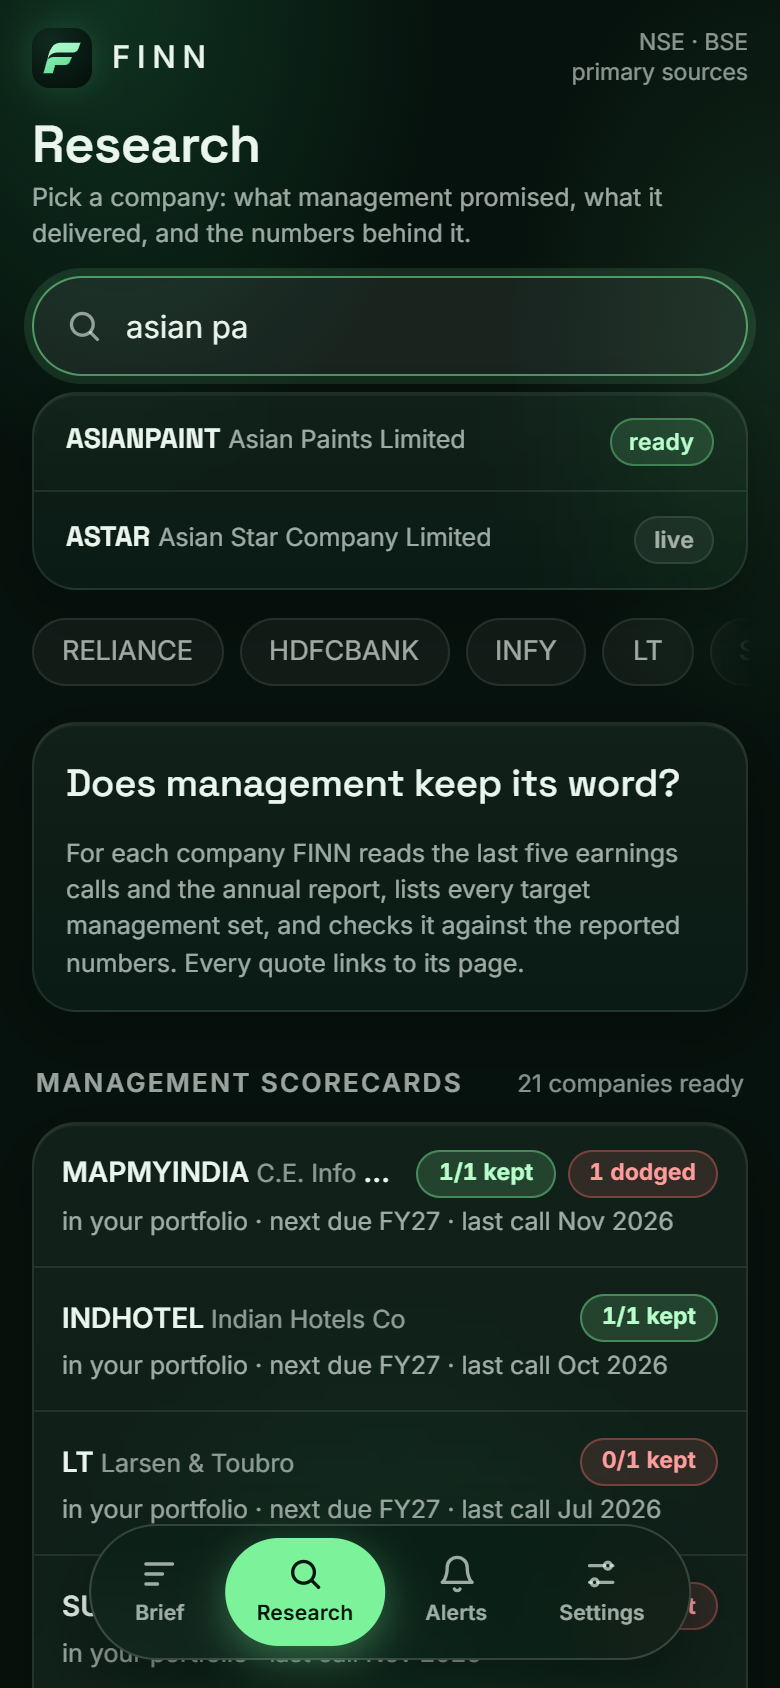
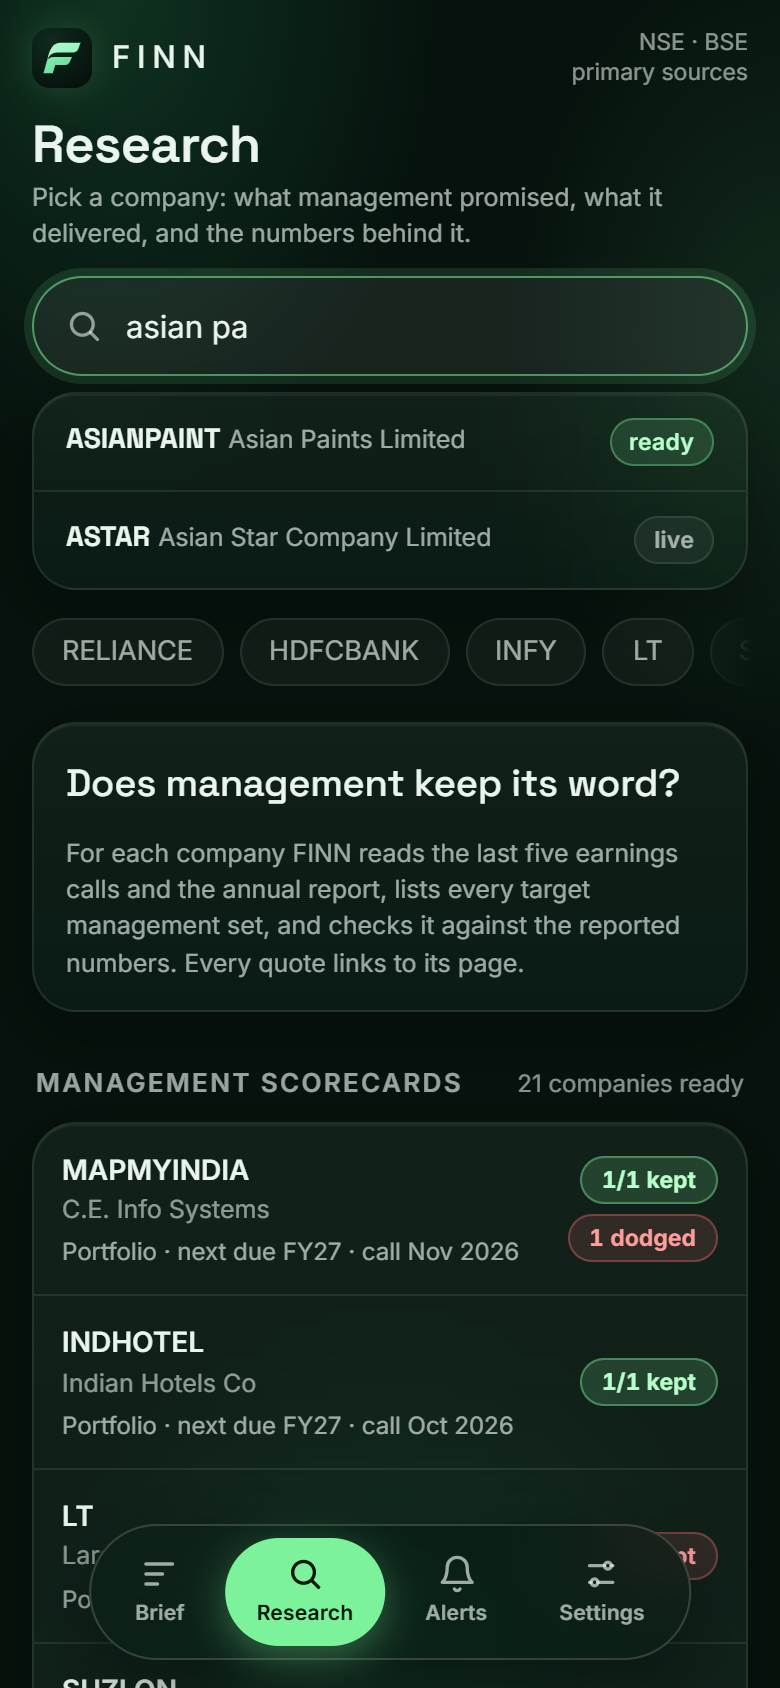
Research list: ticker, name and details on the left, verdicts stacked on the right

diff --git a/frontend/src/screens/Research.tsx b/frontend/src/screens/Research.tsx
@@ -163,17 +163,18 @@ function Intro({ index, onPick }: { index: Json[]; onPick: (t: string) => void }
         {rows.map((r) => {
           const k = ratio(r.kept), d = ratio(r.dodged);
           return (
-            <button key={r.ticker} className="ledger-row" onClick={() => onPick(r.ticker)}>
-              <div className="line1">
-                <span className="what">{r.ticker} <span className="faint small" style={{ fontWeight: 400 }}>{shortName(r.name)}</span></span>
-                <span className="tnum small" style={{ display: "flex", gap: 6 }}>
-                  <span className={`verdict ${k && k.b ? (k.a / k.b >= 0.6 ? "v-kept" : k.a / k.b >= 0.34 ? "v-partly" : "v-missed") : "v-nm"}`}>
-                    {k && k.b ? `${k.a}/${k.b} kept` : r.tracked ? `${r.tracked} tracked` : "no targets"}
-                  </span>
-                  {d && d.a > 0 && <span className="verdict v-missed">{d.a} dodged</span>}
-                </span>
+            <button key={r.ticker} className="ledger-row score-row" onClick={() => onPick(r.ticker)}>
+              <div className="score-left">
+                <div className="what">{r.ticker}</div>
+                <div className="score-name">{shortName(r.name)}</div>
+                <div className="line2">{r.in_portfolio ? "Portfolio" : "Not held"}{r.next_due ? ` · next due ${r.next_due.replace(/^by /, "")}` : ""}{r.last_call ? ` · call ${monthYear(r.last_call)}` : ""}</div>
               </div>
-              <div className="line2">{r.in_portfolio ? "in your portfolio" : "research only (not held)"}{r.next_due ? ` · next due ${r.next_due.replace(/^by /, "")}` : ""}{r.last_call ? ` · last call ${monthYear(r.last_call)}` : ""}</div>
+              <div className="score-pills tnum">
+                {k && k.b
+                  ? <span className={`verdict ${k.a / k.b >= 0.6 ? "v-kept" : k.a / k.b >= 0.34 ? "v-partly" : "v-missed"}`}>{k.a}/{k.b} kept</span>
+                  : r.tracked ? <span className="verdict v-nm">{r.tracked} tracked</span> : null}
+                {d && d.a > 0 && <span className="verdict v-missed">{d.a} dodged</span>}
+              </div>
             </button>
           );
         })}

diff --git a/frontend/src/styles.css b/frontend/src/styles.css
@@ -336,3 +336,10 @@ button:active, .chip:active, .why-btn:active, .btn:active { transform: scale(0.9
 .fire-sym { font-weight: 600; font-size: 13.5px; }
 .fire-ret { font-weight: 600; font-size: 14px; }
 .fire-sub { font-size: 11.5px; color: var(--text-3); margin-top: 1px; }
+
+.score-row { display: flex; align-items: center; gap: 12px; }
+.score-left { flex: 1; min-width: 0; }
+.score-left .what { display: block; }
+.score-name { font-size: 12.5px; color: var(--text-3); white-space: nowrap; overflow: hidden; text-overflow: ellipsis; margin-top: 1px; }
+.score-left .line2 { white-space: nowrap; overflow: hidden; text-overflow: ellipsis; font-size: 12px; }
+.score-pills { flex: none; display: flex; flex-direction: column; align-items: flex-end; gap: 5px; }
